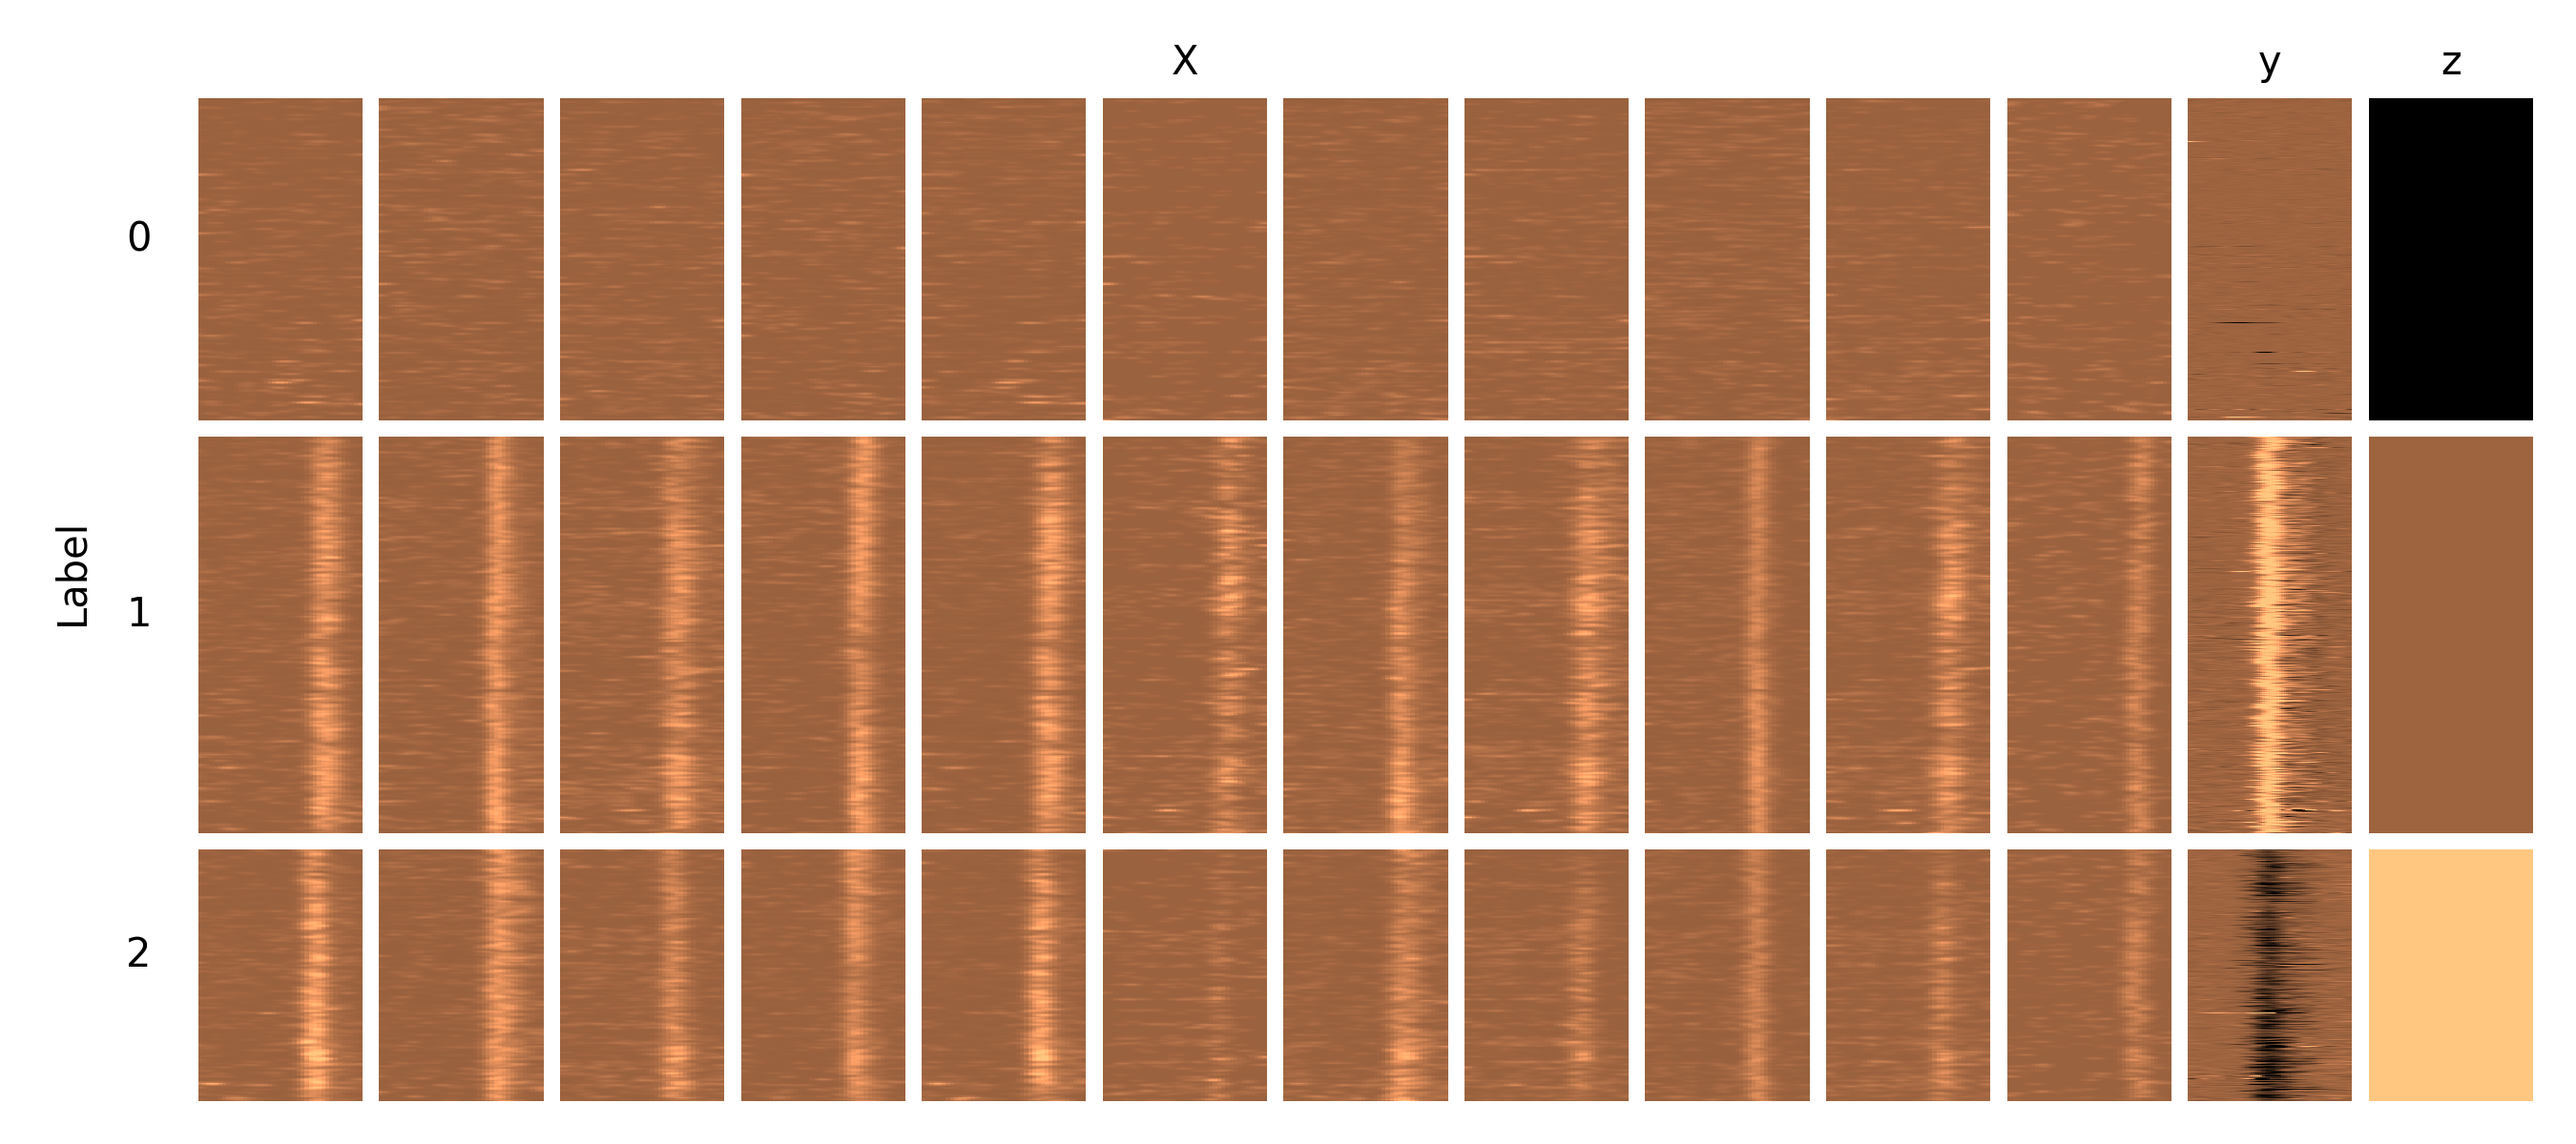
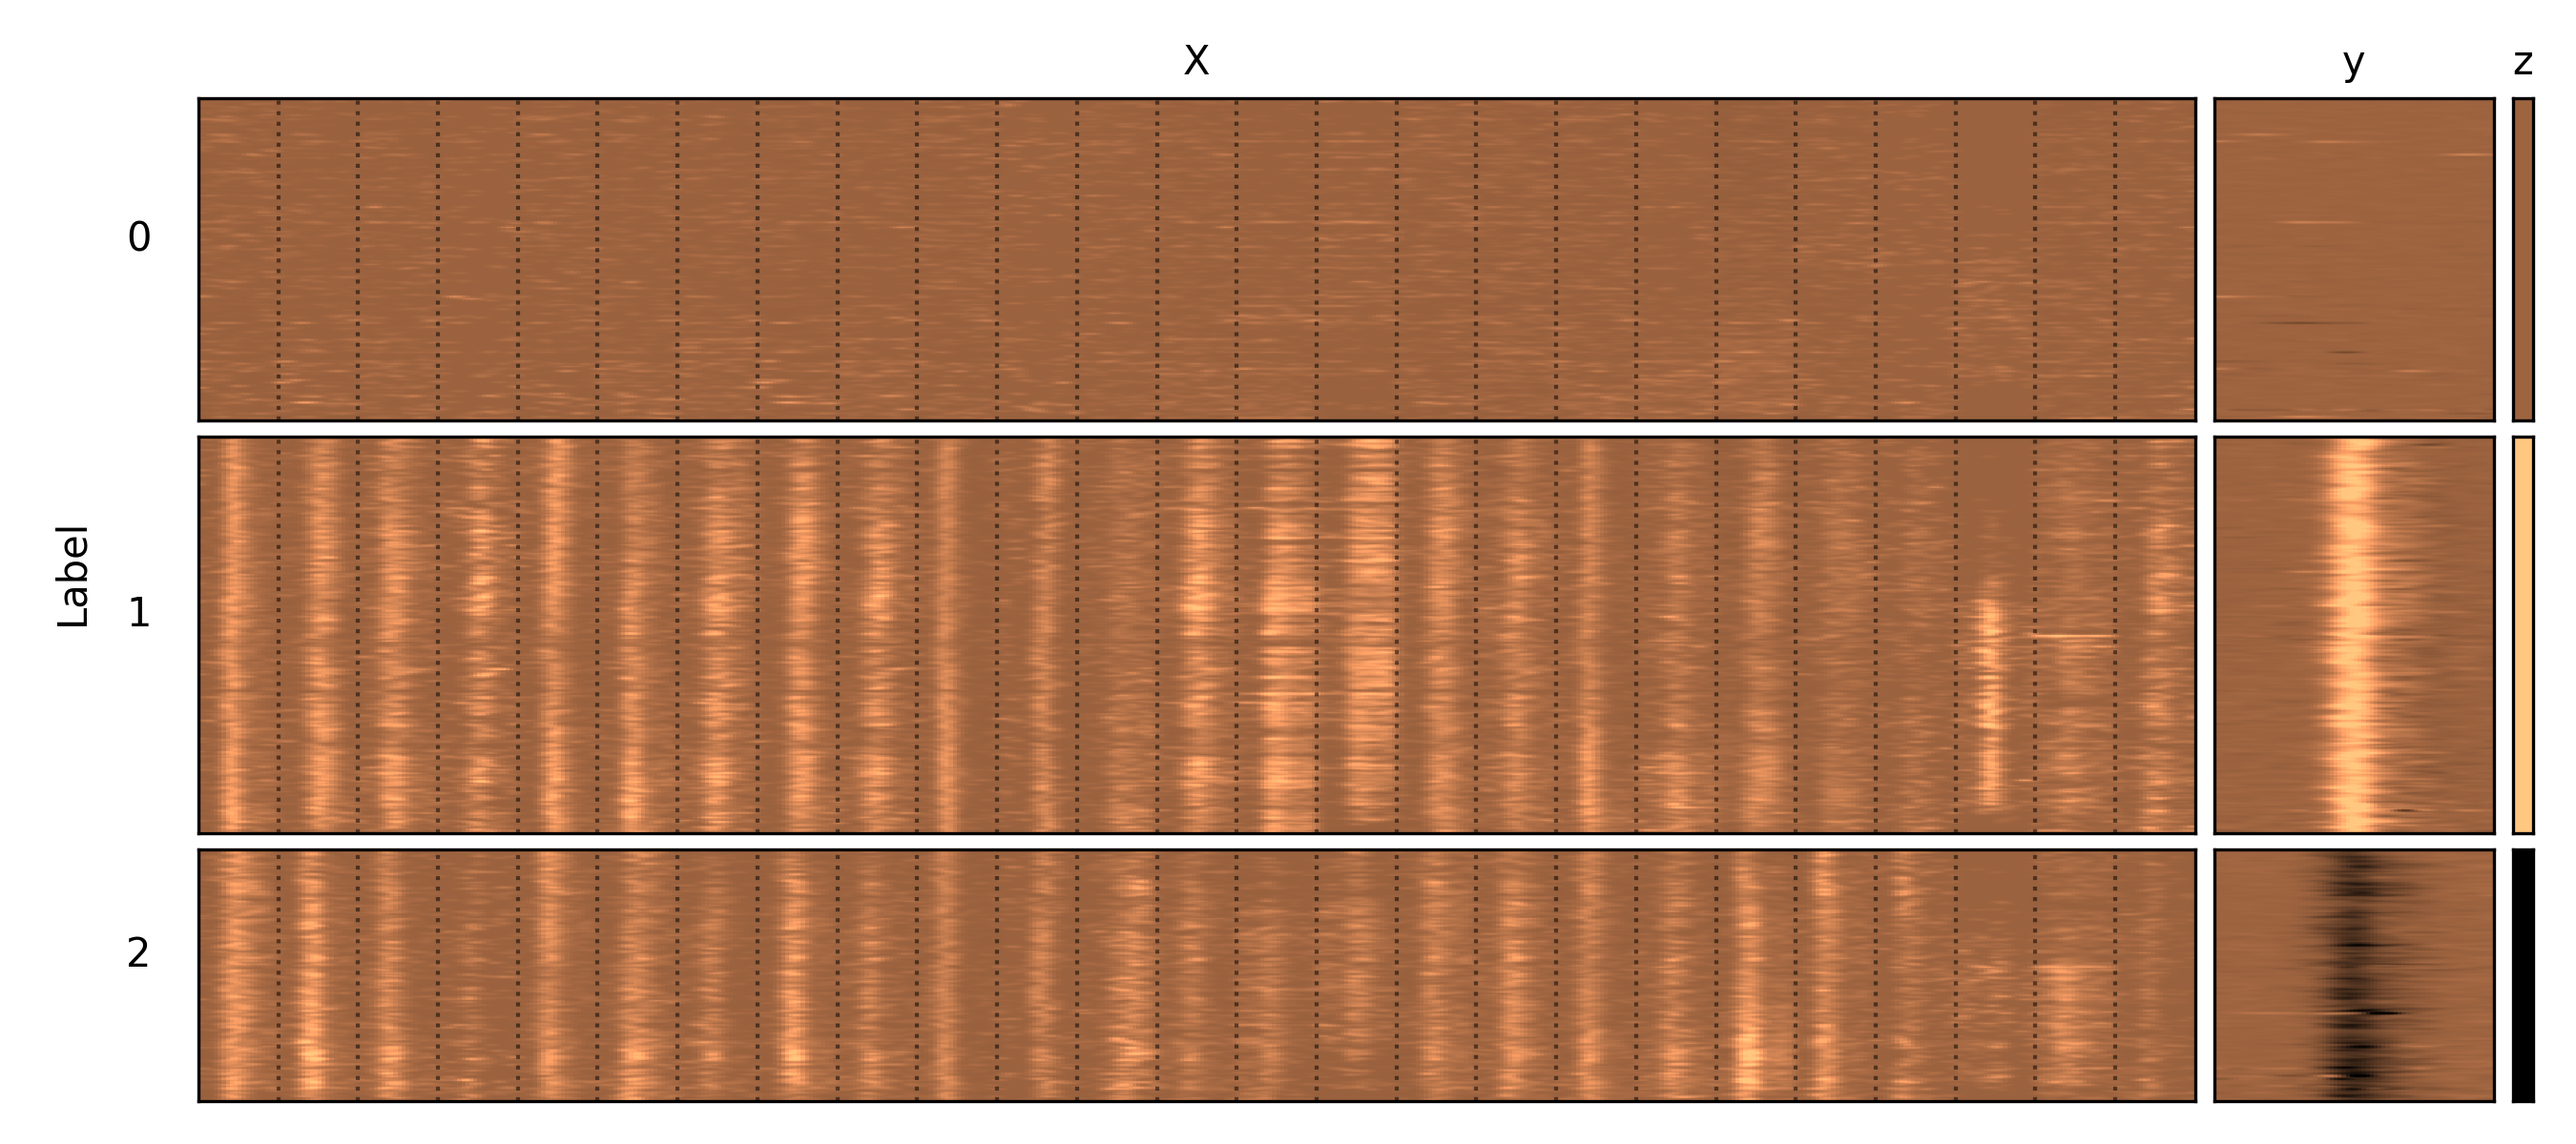
Updated readme

Changed region(s): [[0.0622, 0.0308, 0.9956, 0.9867]]

diff --git a/sdpy/visuals.py b/sdpy/visuals.py
@@ -12,73 +12,106 @@ def visualize_Xyz(
     n_cols=11,
     figsize=(9, 4),
     cmap='pink_r',
-    X_vrange=(-7, 7),
+    X_vrange=(-8, 8),
     y_vrange=(-1500, 1500),
-    xyz=None
+    X_sigma=1.5,
+    y_sigma=1.5,
+    xyz=None,
+    **load_mlati_kwargs
     ):
     """
     """
 
+    _load_mlati_kwargs = {
+        'X_bincounts': (20, 20),
+        'X_binsize': 0.01,
+        'y_bincounts': (25, 45),
+        'y_binsize': 0.002,
+    }
+    _load_mlati_kwargs.update(load_mlati_kwargs)
     if xyz is None:
-        X, y, z = load_mlati(filename, X_bincounts=(20, 20))
+        X, y, z = load_mlati(filename, **load_mlati_kwargs)
     else:
         X, y, z = xyz
-    n_bins = 40
-    n_splits = X.shape[1] // n_bins
-    splits = np.split(X, n_splits, axis=1)
+
+    # Initialize plot
+    n_bins = np.sum(_load_mlati_kwargs['X_bincounts'])
+    n_units = X.shape[1] // n_bins
     height_ratios = (
         np.sum(z == 0),
         np.sum(z == 1),
         np.sum(z == 2)
     )
-    if n_cols is None:
-        n_cols = n_splits
-    fig, axs = plt.subplots(
-        ncols=n_cols + 2,
-        nrows=3,
-        gridspec_kw={'height_ratios': height_ratios}
+    width_ratios = (
+        n_bins * n_cols, # * _load_mlati_kwargs['X_binsize'],
+        np.sum(_load_mlati_kwargs['y_bincounts']), # * _load_mlati_kwargs['y_binsize'],
+        5 # 0.05,
     )
+    fig, axs = plt.subplots(
+        ncols=3,
+        nrows=3,
+        gridspec_kw={'height_ratios': height_ratios, 'width_ratios': width_ratios}
+    )
+
+    # Reorder X
+    splits = np.split(X, n_units, axis=1)
     index = np.argsort([
         sp[z != 0].max(1).mean() for sp in splits
     ])[::-1]
-    splits = [splits[i] for i in index]
-    for j, sp in enumerate(splits[:n_cols]):
-        for i, l in enumerate([0, 1, 2]):
-            m = sp[z == l, :]
-            m = gaussian_filter(m, 1.5)
-            vmin, vmax = X_vrange
-            axs[i, j].pcolor(
-                m,
-                cmap=cmap,
-                vmin=vmin,
-                vmax=vmax
-            )
-    cmap_ = plt.get_cmap(cmap, 3)
+    splits_reordered = [splits[i] for i in index][:n_cols]
+    X_reordered = np.hstack(splits_reordered)
+
+    # Plot X
+    vmin, vmax = X_vrange
     for i, l in enumerate([0, 1, 2]):
-        m = y[z == l] / 0.002
-        vmin, vmax = y_vrange
-        axs[i, n_cols].pcolor(m, cmap=cmap, vmin=vmin, vmax=vmax)
-        axs[i, n_cols + 1].add_patch(
-            plt.Rectangle([0, 0], 1, 1, color=cmap_(i))
+        axs[i, 0].pcolor(
+            gaussian_filter(X_reordered[z == l, :], X_sigma),
+            cmap=cmap,
+            vmin=vmin,
+            vmax=vmax
         )
-        axs[i, n_cols + 1].set_xlim([0, 1])
-        axs[i, n_cols + 1].set_ylim([0, 1])
+
+    # Plot y 
+    cmap_fn = plt.get_cmap(cmap, 3)
+    vmin, vmax = y_vrange
+    for i, (c, l) in enumerate(zip([1, 2, 0], [0, 1, 2])):
+        axs[i, 1].pcolor(
+            gaussian_filter(y[z == l] / _load_mlati_kwargs['y_binsize'], y_sigma),
+            cmap=cmap,
+            vmin=vmin,
+            vmax=vmax
+        )
+        axs[i, 2].add_patch(
+            plt.Rectangle([0, 0], 1, 1, color=cmap_fn(c))
+        )
+        axs[i, 2].set_xlim([0, 1])
+        axs[i, 2].set_ylim([0, 1])
+
+    #
+    for i in range(3):
+        y1, y2 = axs[i, 0].get_ylim()
+        for x0 in range(0, n_cols * n_bins, n_bins)[:-1]:
+            x1 = x0 + n_bins
+            axs[i, 0].vlines(x1, y1, y2, color='k', alpha=0.5, linestyle=':', lw=1)
+        axs[i, 0].set_ylim([y1, y2])
+
+    # Clean up
     for ax in axs.flatten():
-        for sp in ('top', 'right', 'bottom', 'left'):
-            ax.spines[sp].set_visible(False)
+        # for sp in ('top', 'right', 'bottom', 'left'):
+        #     ax.spines[sp].set_visible(False)
         ax.set_xticks([])
         ax.set_yticks([])
     axs[0, 0].set_ylabel('0', rotation=0, labelpad=15)
     axs[1, 0].set_ylabel('1', rotation=0, labelpad=15)
     axs[2, 0].set_ylabel('2', rotation=0, labelpad=15)
     fig.supylabel('Label', fontsize=10)
-    axs[0, 5].set_title('X', fontsize=10)
-    axs[0, -2].set_title('y', fontsize=10)
-    axs[0, -1].set_title('z', fontsize=10)
+    axs[0, 0].set_title('X', fontsize=10)
+    axs[0, 1].set_title('y', fontsize=10)
+    axs[0, 2].set_title('z', fontsize=10)
     fig.set_figwidth(figsize[0])
     fig.set_figheight(figsize[1])
     fig.tight_layout()
-    fig.subplots_adjust(hspace=0.05, wspace=0.1)
+    fig.subplots_adjust(hspace=0.05, wspace=0.025)
 
     return fig, axs, (X, y, z)
 

diff --git a/README.md b/README.md
@@ -13,7 +13,7 @@ The `sdpy.data.load_mlati` function returns 3 variables:
 - `y` - The `y` variable contains the velocity waveforms (in deg/s) for each saccade.
 - `z` - The `z` variable indicates the type of saccade: 0 (Null), 1 (Nasal), or 2 (Temporal).
 
-Here is a plot that visualizes the first 440 columns of `X` (i.e., the first 11 neurons), all values of `y`, and all values of `z`. Samples are grouped by the type of saccade along the y-axis, and for `X`, individual neurons are grouped along the x-axis.
+Here is a plot that visualizes the first 500 columns of `X` (i.e, the first 25 neurons), all values of `y`, and all values of `z`. Samples are grouped by the type of saccade along the y-axis, and for `X`, individual neurons are indicated with a dotted black line.
 
 <p align="center">
   <img src="docs/imgs/Xyz.png" width="700" alt="Animated demo">
